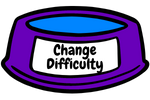
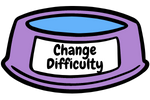
Updated change difficulty button, and centered cards

diff --git a/script.js b/script.js
@@ -10,6 +10,7 @@ let hardMode = false;
 let counter = 0;
 
 let cards = [
+  "beemo.png",
   "cash.png",
   "crash.png",
   "marlee.png",
@@ -64,16 +65,15 @@ function createCards(array) {
     cardBack.classList.add("flip-card-back");
     cardBack.src = "/images/lessMuted.png";
 
-    flipCard.addEventListener("click", function toggleCard() {
+    cardBack.addEventListener("click", function toggleCard() {
       counter++;
       console.log(counter);
       if (counter <= 2) {
         cardFront.classList.add("toggle-card");
         cardBack.classList.add("toggle-card");
-  
+
         matchCards();
       }
-      
     });
 
     flipCard.appendChild(cardFront);
@@ -149,12 +149,11 @@ function matchCards() {
   let toggledCards = document.querySelectorAll(".toggle-card");
   let allCards = document.querySelectorAll(".flip-card");
   let remainingCards = document.querySelectorAll(".flip-card-front");
-  
 
   if (toggledCards.length === 4 && counter >= 2) {
     if (toggledCards[0].src === toggledCards[2].src) {
       setTimeout(removeCards, 1000, toggledCards);
-      
+
       if (remainingCards.length <= 2) {
         clearInterval(int);
         youWon.style.display = "flex";

diff --git a/style.css b/style.css
@@ -25,12 +25,13 @@ body {
   top: 50%;
   left: 50%;
   transform: translate(-50%, -50%);
+  margin-top: 75px;
 }
 
 #game-container {
   display: grid;
-  grid-template-columns: repeat(3, 7em);
-  grid-template-rows: repeat(3, 7em);
+  grid-template-columns: repeat(4, 5.5em);
+  grid-template-rows: repeat(5, 5.5em);
   justify-content: center;
   align-content: center;
 }
@@ -134,8 +135,8 @@ body {
 
 .flip-card {
   background-color: transparent;
-  width: 100px;
-  height: 100px;
+  width: 75px;
+  height: 75px;
   perspective: 800px;
 }
 
@@ -236,6 +237,12 @@ body {
     font-size: xx-large;
   }
 
+  .flip-card {
+    width: 125px;
+    height: 125px;
+    perspective: 800px;
+  }
+
   #start-button {
     height: 100px;
     width: 150px;
@@ -264,11 +271,15 @@ body {
 
   #game-container {
     display: grid;
-    grid-template-columns: repeat(4, 7em);
-    grid-template-rows: repeat(3, 7em);
+    grid-template-columns: repeat(5, 9em);
+    grid-template-rows: repeat(4, 9em);
   }
 
   #you-won {
     font-size: xx-large;
+  }
+
+  #flex-container {
+    margin-top: 125px;
   }
 }
